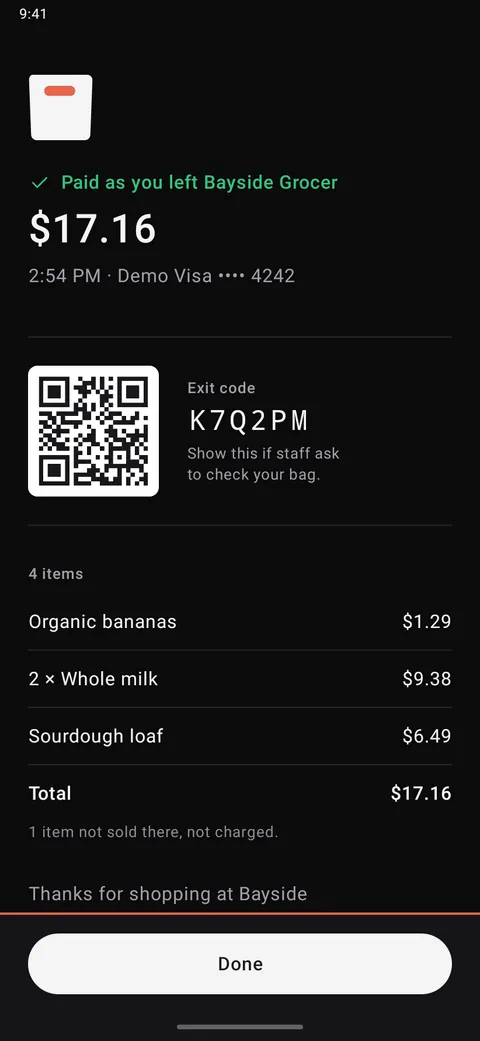
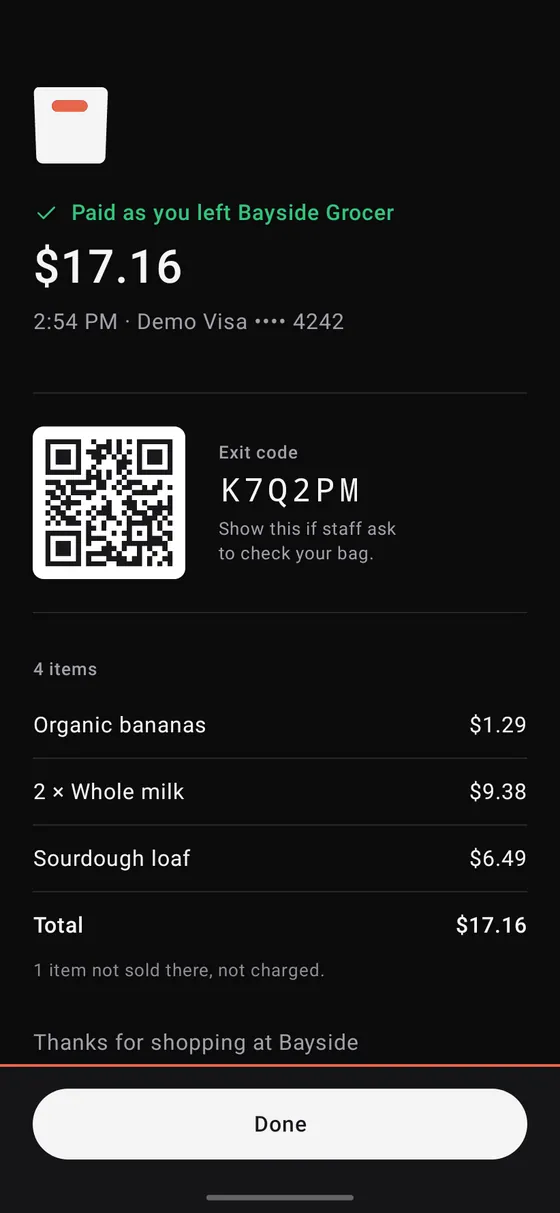
Website: Get the app as one phone preview of every screen with an Android | iPhone selector (single PAGES list)

diff --git a/website/index.html b/website/index.html
@@ -2,6 +2,7 @@
 <html lang="en">
 <head>
 <meta charset="utf-8">
+<script>document.documentElement.className+=" js"</script>
 <meta name="viewport" content="width=device-width,initial-scale=1,viewport-fit=cover">
 <title>Bag It: the bag that checks you out</title>
 <meta name="description" content="Bag It is a smart grocery bag. Drop your groceries in, walk out of the store, and your receipt arrives on your phone. No lines, no scanning. Android app available now; iPhone app coming soon.">
@@ -79,25 +80,51 @@ figcaption{font-size:14px;color:var(--faint);margin-top:12px;text-align:center}
 @media (max-width:899px){.steps{grid-template-columns:1fr;row-gap:28px}}
 .demo-film{margin:0;max-width:1120px}
 .demo-film figcaption{text-align:left}
-.plats{display:grid;grid-template-columns:repeat(2,minmax(0,1fr));gap:clamp(32px,6vw,80px);align-items:start}
-@media (max-width:819px){.plats{grid-template-columns:1fr;row-gap:40px}}
-.plat{padding:24px 0 8px;border-top:1px solid var(--ink)}
-.plat-h{display:flex;flex-wrap:wrap;align-items:baseline;justify-content:space-between;gap:4px 16px}
-.plat h3{font-size:22px}
-.plat-h p{font-size:15px;color:var(--muted)}
-.plat .fine{margin-top:12px;max-width:40em}
-.act{display:flex;align-items:center;min-height:48px;margin-top:24px}
-.soon{font-weight:600;color:var(--ink)}
-.screens{display:grid;grid-template-columns:repeat(2,minmax(0,1fr));gap:clamp(12px,2vw,20px);max-width:500px;margin:24px 0 0;padding:0;list-style:none}
-.screens img{width:100%;height:auto;border-radius:clamp(14px,2.4vw,22px);outline:1px solid var(--line);outline-offset:-1px;background:var(--bg2)}
-.screens figcaption{text-align:left;margin-top:10px}
-.shots-note{font-size:14px;color:var(--faint);margin-top:clamp(28px,4vw,40px)}
-.qr-box{display:flex;gap:20px;align-items:center;margin-top:24px;padding:20px;border:1px solid var(--line);border-radius:20px;background:var(--bg2);max-width:500px}
-.qr{width:132px;height:132px;flex:none;border-radius:8px}
-.qr-box p{font-size:15px;color:var(--muted)}
-.qr-box b{display:block;color:var(--ink);font-weight:600;margin-bottom:4px}
-@media (max-width:819px){.qr-box{display:none}}
+.tour{display:flex;flex-direction:column;align-items:center}
+.pages{display:flex;flex-wrap:wrap;justify-content:center;gap:2px 6px;margin:0 0 clamp(20px,3vw,28px)}
+.pages[hidden],.platsel[hidden],.step[hidden]{display:none}
+.pages button{cursor:pointer;min-height:44px;min-width:44px;padding:0 12px;border:0;background:none;color:var(--muted);font:500 15px/1 var(--sans);border-radius:999px;position:relative;transition:color .2s ease-out}
+.pages button:hover{color:var(--ink)}
+.pages button[aria-selected=true]{color:var(--ink);font-weight:600}
+.pages button[aria-selected=true]::after{content:"";position:absolute;left:12px;right:12px;bottom:6px;height:2px;border-radius:2px;background:var(--ink)}
+.phone{width:clamp(232px,64vw,280px);padding:7px;border:1px solid var(--line2);border-radius:46px;background:var(--bg);margin:0}
+.screen{position:relative;aspect-ratio:560/1213;border-radius:39px;overflow:hidden;background:var(--bg2);touch-action:pan-y;user-select:none;-webkit-user-select:none}
+.screen picture,.screen img{position:absolute;inset:0;width:100%;height:100%}
+.screen img{object-fit:cover;object-position:top;-webkit-user-drag:none}
+.screen picture{transition:opacity .28s ease-out}
+.screen picture.in{opacity:0}
+.ctl{display:flex;align-items:center;justify-content:center;gap:14px;margin-top:16px}
+.step{cursor:pointer;width:44px;height:44px;border-radius:999px;border:1px solid var(--line2);background:none;color:var(--ink);display:inline-flex;align-items:center;justify-content:center;transition:border-color .2s ease-out}
+.step:hover{border-color:var(--muted)}
+.step svg{width:16px;height:16px}
+.cap{font-size:14px;color:var(--faint);min-width:11em;text-align:center}
+.cap b{color:var(--ink);font-weight:600}
+.shots-note{font-size:14px;color:var(--faint);margin-top:10px;text-align:center;max-width:34em}
+.ios-only{display:none}
+html.plat-ios .ios-only{display:inline}
+.platsel{display:flex;gap:4px;padding:4px;margin:clamp(40px,6vw,64px) auto 0;width:max-content;border:1px solid var(--line2);border-radius:999px}
+.platsel button{cursor:pointer;min-height:44px;min-width:120px;padding:0 22px;border:0;border-radius:999px;background:none;color:var(--muted);font:600 15px/1 var(--sans);transition:color .2s ease-out}
+.platsel button:hover{color:var(--ink)}
+.platsel button[aria-selected=true]{background:var(--btn);color:var(--btn-ink)}
+.panels{max-width:760px;margin:clamp(24px,4vw,36px) auto 0}
+.panel{display:grid;grid-template-columns:minmax(0,1fr) auto;gap:24px 40px;align-items:start;padding-top:24px;border-top:1px solid var(--ink)}
+.panel+.panel{margin-top:40px}
+.js .panel+.panel{margin-top:0}
+.panel[hidden]{display:none}
+.panel h3{font-size:22px;margin-bottom:6px}
+.js .panel h3{display:none}
+.panel .meta{color:var(--muted)}
+.panel .act{margin-top:20px}
+.panel .fine{margin-top:14px;max-width:40em}
+.panel .plain{font-size:18px;color:var(--ink);margin-top:14px;max-width:28em}
+.js .nojs-only{display:none}
+.qr-box{display:flex;flex-direction:column;gap:12px;align-items:center;padding:16px;border:1px solid var(--line);border-radius:20px;background:var(--bg2);width:180px}
+.qr{width:146px;height:146px;flex:none;border-radius:6px}
+.qr-box p{font-size:14px;color:var(--muted);text-align:center;line-height:1.4}
+.qr-box b{display:block;color:var(--ink);font-weight:600}
+@media (max-width:819px){.panel{grid-template-columns:1fr}.qr-box{display:none}}
 @media (hover:none) and (pointer:coarse){.qr-box{display:none}}
+@media (prefers-reduced-motion:reduce){.screen picture,.pages button,.platsel button,.step{transition:none}}
 .faq{max-width:760px;border-top:1px solid var(--ink)}
 .faq details{border-bottom:1px solid var(--line)}
 .faq summary{list-style:none;cursor:pointer;display:flex;justify-content:space-between;align-items:center;gap:20px;padding:20px 0;font-weight:600;font-size:17px}
@@ -173,32 +200,39 @@ html{scroll-padding-top:72px}
 <section class="sec" id="get" aria-labelledby="get-h">
 <div class="wrap">
 <div class="head"><p class="label">Get the app</p><h2 id="get-h">For iPhone and Android.</h2><p>Bags aren’t on sale yet. During early access, the app works with a Bag It bag in a few demo stores. Get it on Android now; the iPhone app is on its way.</p></div>
-<div class="plats">
-<div class="plat" id="get-android">
-<div class="plat-h"><h3>Android</h3><p>Version 3.1 · Android 8.0 or newer · 6.6 MB</p></div>
-<!-- SCREENS (swap point): Android. Files come from tools/make-screens.py; keep the same two states on both platforms. -->
-<ul class="screens" aria-label="Bag It on Android">
-<li><figure style="margin:0"><picture><source srcset="media/screens/android-shop-dark.webp" media="(prefers-color-scheme: dark)"><img src="media/screens/android-shop.webp" width="480" height="1041" loading="lazy" decoding="async" alt="Bag It on Android while shopping at Bayside Grocer: bag connected, sourdough loaf just added, one item not sold there, and Just walk out, $17.16."></picture><figcaption>Shopping</figcaption></figure></li>
-<li><figure style="margin:0"><picture><source srcset="media/screens/android-receipt-dark.webp" media="(prefers-color-scheme: dark)"><img src="media/screens/android-receipt.webp" width="480" height="1041" loading="lazy" decoding="async" alt="Bag It on Android after leaving: Paid as you left Bayside Grocer, $17.16 with a demo card, and an exit code to show staff."></picture><figcaption>Receipt</figcaption></figure></li>
-</ul>
-<!-- /SCREENS -->
+<div class="tour" role="group" aria-roledescription="app preview" aria-label="App screens">
+<div class="pages" role="tablist" aria-label="App screen" hidden></div>
+<figure class="phone" id="phone" role="tabpanel" aria-label="App screen">
+<div class="screen" id="screen">
+<!-- FIRST SCREEN -->
+<picture><source srcset="media/screens/android-shopping-dark.webp" media="(prefers-color-scheme: dark)"><img src="media/screens/android-shopping.webp" width="560" height="1213" fetchpriority="low" decoding="async" alt="Bag It on Android. Shopping at Bayside Grocer: each item appears with its price as it goes in the bag, one item isn’t sold there and won’t be charged, and the total says Just walk out."></picture>
+<!-- /FIRST SCREEN -->
+</div>
+</figure>
+<div class="ctl"><button class="step" type="button" id="prev" aria-label="Previous screen" hidden><svg viewBox="0 0 16 16" aria-hidden="true" fill="none" stroke="currentColor" stroke-width="1.8" stroke-linecap="round" stroke-linejoin="round"><path d="M10 3 5 8l5 5"/></svg></button><p class="cap" id="cap" aria-live="polite"><b>Shopping</b> · Android</p><button class="step" type="button" id="next" aria-label="Next screen" hidden><svg viewBox="0 0 16 16" aria-hidden="true" fill="none" stroke="currentColor" stroke-width="1.8" stroke-linecap="round" stroke-linejoin="round"><path d="m6 3 5 5-5 5"/></svg></button></div>
+<p class="shots-note">Screens show demo data.<span class="ios-only"> The iPhone screens are previews of the app in development.</span></p>
+</div>
+<div class="platsel" role="tablist" aria-label="Your phone" hidden><button type="button" role="tab" id="tab-android" aria-controls="get-android" aria-selected="true">Android</button><button type="button" role="tab" id="tab-iphone" aria-controls="get-iphone" aria-selected="false" tabindex="-1">iPhone</button></div>
+<div class="panels">
+<div class="panel" id="get-android" role="tabpanel" aria-labelledby="tab-android">
+<div>
+<h3>Android</h3>
+<p class="meta">Version 3.1 · Android 8.0 or newer · 6.6 MB</p>
 <div class="act"><a class="btn btn-1" href="downloads/bag-it.apk" download><svg viewBox="0 0 16 16" aria-hidden="true" fill="none" stroke="currentColor" stroke-width="1.8" stroke-linecap="round" stroke-linejoin="round"><path d="M8 2.5v8M4.5 7 8 10.5 11.5 7M3 13.5h10"/></svg>Download for Android</a></div>
 <p class="fine">It isn’t on Google Play yet, so Android will ask you to allow the install; it appears on your phone as Bag It. Then allow Bluetooth (Nearby devices on Android 12 and newer), precise location and notifications, open the app near your bag and tap Connect bag. During early access, payments are simulated, and your phone’s location and trips are stored as test data that anyone can read.</p>
-<div class="qr-box"><svg class="qr" viewBox="-4 -4 37 37" role="img" aria-label="QR code that downloads the Bag It app for Android" shape-rendering="crispEdges"><rect x="-4" y="-4" width="37" height="37" fill="#fff"/><path fill="#18181B" d="M0 0h1v1h-1zM1 0h1v1h-1zM2 0h1v1h-1zM3 0h1v1h-1zM4 0h1v1h-1zM5 0h1v1h-1zM6 0h1v1h-1zM9 0h1v1h-1zM12 0h1v1h-1zM14 0h1v1h-1zM16 0h1v1h-1zM17 0h1v1h-1zM18 0h1v1h-1zM19 0h1v1h-1zM20 0h1v1h-1zM22 0h1v1h-1zM23 0h1v1h-1zM24 0h1v1h-1zM25 0h1v1h-1zM26 0h1v1h-1zM27 0h1v1h-1zM28 0h1v1h-1zM0 1h1v1h-1zM6 1h1v1h-1zM9 1h1v1h-1zM10 1h1v1h-1zM11 1h1v1h-1zM12 1h1v1h-1zM14 1h1v1h-1zM15 1h1v1h-1zM16 1h1v1h-1zM17 1h1v1h-1zM22 1h1v1h-1zM28 1h1v1h-1zM0 2h1v1h-1zM2 2h1v1h-1zM3 2h1v1h-1zM4 2h1v1h-1zM6 2h1v1h-1zM8 2h1v1h-1zM10 2h1v1h-1zM11 2h1v1h-1zM15 2h1v1h-1zM20 2h1v1h-1zM22 2h1v1h-1zM24 2h1v1h-1zM25 2h1v1h-1zM26 2h1v1h-1zM28 2h1v1h-1zM0 3h1v1h-1zM2 3h1v1h-1zM3 3h1v1h-1zM4 3h1v1h-1zM6 3h1v1h-1zM8 3h1v1h-1zM9 3h1v1h-1zM13 3h1v1h-1zM17 3h1v1h-1zM22 3h1v1h-1zM24 3h1v1h-1zM25 3h1v1h-1zM26 3h1v1h-1zM28 3h1v1h-1zM0 4h1v1h-1zM2 4h1v1h-1zM3 4h1v1h-1zM4 4h1v1h-1zM6 4h1v1h-1zM8 4h1v1h-1zM10 4h1v1h-1zM11 4h1v1h-1zM13 4h1v1h-1zM16 4h1v1h-1zM19 4h1v1h-1zM20 4h1v1h-1zM22 4h1v1h-1zM24 4h1v1h-1zM25 4h1v1h-1zM26 4h1v1h-1zM28 4h1v1h-1zM0 5h1v1h-1zM6 5h1v1h-1zM8 5h1v1h-1zM10 5h1v1h-1zM11 5h1v1h-1zM12 5h1v1h-1zM13 5h1v1h-1zM14 5h1v1h-1zM15 5h1v1h-1zM16 5h1v1h-1zM17 5h1v1h-1zM20 5h1v1h-1zM22 5h1v1h-1zM28 5h1v1h-1zM0 6h1v1h-1zM1 6h1v1h-1zM2 6h1v1h-1zM3 6h1v1h-1zM4 6h1v1h-1zM5 6h1v1h-1zM6 6h1v1h-1zM8 6h1v1h-1zM10 6h1v1h-1zM12 6h1v1h-1zM14 6h1v1h-1zM16 6h1v1h-1zM18 6h1v1h-1zM20 6h1v1h-1zM22 6h1v1h-1zM23 6h1v1h-1zM24 6h1v1h-1zM25 6h1v1h-1zM26 6h1v1h-1zM27 6h1v1h-1zM28 6h1v1h-1zM8 7h1v1h-1zM10 7h1v1h-1zM12 7h1v1h-1zM15 7h1v1h-1zM16 7h1v1h-1zM19 7h1v1h-1zM20 7h1v1h-1zM0 8h1v1h-1zM2 8h1v1h-1zM3 8h1v1h-1zM4 8h1v1h-1zM5 8h1v1h-1zM6 8h1v1h-1zM9 8h1v1h-1zM12 8h1v1h-1zM13 8h1v1h-1zM14 8h1v1h-1zM17 8h1v1h-1zM19 8h1v1h-1zM22 8h1v1h-1zM23 8h1v1h-1zM24 8h1v1h-1zM25 8h1v1h-1zM26 8h1v1h-1zM0 9h1v1h-1zM1 9h1v1h-1zM2 9h1v1h-1zM3 9h1v1h-1zM4 9h1v1h-1zM5 9h1v1h-1zM8 9h1v1h-1zM9 9h1v1h-1zM10 9h1v1h-1zM11 9h1v1h-1zM17 9h1v1h-1zM18 9h1v1h-1zM19 9h1v1h-1zM22 9h1v1h-1zM23 9h1v1h-1zM24 9h1v1h-1zM28 9h1v1h-1zM5 10h1v1h-1zM6 10h1v1h-1zM10 10h1v1h-1zM15 10h1v1h-1zM16 10h1v1h-1zM17 10h1v1h-1zM20 10h1v1h-1zM23 10h1v1h-1zM24 10h1v1h-1zM0 11h1v1h-1zM1 11h1v1h-1zM5 11h1v1h-1zM10 11h1v1h-1zM14 11h1v1h-1zM16 11h1v1h-1zM18 11h1v1h-1zM19 11h1v1h-1zM21 11h1v1h-1zM25 11h1v1h-1zM27 11h1v1h-1zM0 12h1v1h-1zM5 12h1v1h-1zM6 12h1v1h-1zM7 12h1v1h-1zM8 12h1v1h-1zM9 12h1v1h-1zM10 12h1v1h-1zM11 12h1v1h-1zM12 12h1v1h-1zM13 12h1v1h-1zM14 12h1v1h-1zM15 12h1v1h-1zM17 12h1v1h-1zM20 12h1v1h-1zM25 12h1v1h-1zM26 12h1v1h-1zM0 13h1v1h-1zM1 13h1v1h-1zM3 13h1v1h-1zM4 13h1v1h-1zM5 13h1v1h-1zM7 13h1v1h-1zM9 13h1v1h-1zM12 13h1v1h-1zM14 13h1v1h-1zM16 13h1v1h-1zM17 13h1v1h-1zM18 13h1v1h-1zM19 13h1v1h-1zM20 13h1v1h-1zM22 13h1v1h-1zM23 13h1v1h-1zM24 13h1v1h-1zM28 13h1v1h-1zM0 14h1v1h-1zM1 14h1v1h-1zM2 14h1v1h-1zM3 14h1v1h-1zM6 14h1v1h-1zM9 14h1v1h-1zM15 14h1v1h-1zM16 14h1v1h-1zM20 14h1v1h-1zM23 14h1v1h-1zM25 14h1v1h-1zM26 14h1v1h-1zM0 15h1v1h-1zM2 15h1v1h-1zM5 15h1v1h-1zM7 15h1v1h-1zM9 15h1v1h-1zM11 15h1v1h-1zM12 15h1v1h-1zM15 15h1v1h-1zM18 15h1v1h-1zM20 15h1v1h-1zM22 15h1v1h-1zM23 15h1v1h-1zM24 15h1v1h-1zM27 15h1v1h-1zM0 16h1v1h-1zM3 16h1v1h-1zM5 16h1v1h-1zM6 16h1v1h-1zM9 16h1v1h-1zM10 16h1v1h-1zM13 16h1v1h-1zM14 16h1v1h-1zM15 16h1v1h-1zM17 16h1v1h-1zM20 16h1v1h-1zM25 16h1v1h-1zM26 16h1v1h-1zM0 17h1v1h-1zM1 17h1v1h-1zM4 17h1v1h-1zM5 17h1v1h-1zM7 17h1v1h-1zM9 17h1v1h-1zM10 17h1v1h-1zM12 17h1v1h-1zM13 17h1v1h-1zM16 17h1v1h-1zM17 17h1v1h-1zM18 17h1v1h-1zM19 17h1v1h-1zM20 17h1v1h-1zM21 17h1v1h-1zM22 17h1v1h-1zM23 17h1v1h-1zM24 17h1v1h-1zM26 17h1v1h-1zM28 17h1v1h-1zM0 18h1v1h-1zM4 18h1v1h-1zM5 18h1v1h-1zM6 18h1v1h-1zM8 18h1v1h-1zM11 18h1v1h-1zM13 18h1v1h-1zM15 18h1v1h-1zM17 18h1v1h-1zM21 18h1v1h-1zM22 18h1v1h-1zM23 18h1v1h-1zM24 18h1v1h-1zM26 18h1v1h-1zM0 19h1v1h-1zM2 19h1v1h-1zM8 19h1v1h-1zM10 19h1v1h-1zM14 19h1v1h-1zM19 19h1v1h-1zM20 19h1v1h-1zM24 19h1v1h-1zM27 19h1v1h-1zM0 20h1v1h-1zM2 20h1v1h-1zM5 20h1v1h-1zM6 20h1v1h-1zM7 20h1v1h-1zM8 20h1v1h-1zM9 20h1v1h-1zM10 20h1v1h-1zM15 20h1v1h-1zM17 20h1v1h-1zM19 20h1v1h-1zM20 20h1v1h-1zM21 20h1v1h-1zM22 20h1v1h-1zM23 20h1v1h-1zM24 20h1v1h-1zM26 20h1v1h-1zM27 20h1v1h-1zM28 20h1v1h-1zM8 21h1v1h-1zM9 21h1v1h-1zM11 21h1v1h-1zM16 21h1v1h-1zM18 21h1v1h-1zM20 21h1v1h-1zM24 21h1v1h-1zM25 21h1v1h-1zM26 21h1v1h-1zM27 21h1v1h-1zM28 21h1v1h-1zM0 22h1v1h-1zM1 22h1v1h-1zM2 22h1v1h-1zM3 22h1v1h-1zM4 22h1v1h-1zM5 22h1v1h-1zM6 22h1v1h-1zM9 22h1v1h-1zM11 22h1v1h-1zM12 22h1v1h-1zM15 22h1v1h-1zM16 22h1v1h-1zM18 22h1v1h-1zM19 22h1v1h-1zM20 22h1v1h-1zM22 22h1v1h-1zM24 22h1v1h-1zM25 22h1v1h-1zM26 22h1v1h-1zM0 23h1v1h-1zM6 23h1v1h-1zM8 23h1v1h-1zM9 23h1v1h-1zM16 23h1v1h-1zM20 23h1v1h-1zM24 23h1v1h-1zM0 24h1v1h-1zM2 24h1v1h-1zM3 24h1v1h-1zM4 24h1v1h-1zM6 24h1v1h-1zM8 24h1v1h-1zM9 24h1v1h-1zM10 24h1v1h-1zM11 24h1v1h-1zM12 24h1v1h-1zM17 24h1v1h-1zM20 24h1v1h-1zM21 24h1v1h-1zM22 24h1v1h-1zM23 24h1v1h-1zM24 24h1v1h-1zM26 24h1v1h-1zM27 24h1v1h-1zM28 24h1v1h-1zM0 25h1v1h-1zM2 25h1v1h-1zM3 25h1v1h-1zM4 25h1v1h-1zM6 25h1v1h-1zM8 25h1v1h-1zM9 25h1v1h-1zM12 25h1v1h-1zM13 25h1v1h-1zM18 25h1v1h-1zM25 25h1v1h-1zM26 25h1v1h-1zM27 25h1v1h-1zM28 25h1v1h-1zM0 26h1v1h-1zM2 26h1v1h-1zM3 26h1v1h-1zM4 26h1v1h-1zM6 26h1v1h-1zM8 26h1v1h-1zM13 26h1v1h-1zM15 26h1v1h-1zM16 26h1v1h-1zM20 26h1v1h-1zM22 26h1v1h-1zM23 26h1v1h-1zM24 26h1v1h-1zM25 26h1v1h-1zM26 26h1v1h-1zM27 26h1v1h-1zM0 27h1v1h-1zM6 27h1v1h-1zM10 27h1v1h-1zM12 27h1v1h-1zM14 27h1v1h-1zM18 27h1v1h-1zM20 27h1v1h-1zM25 27h1v1h-1zM27 27h1v1h-1zM0 28h1v1h-1zM1 28h1v1h-1zM2 28h1v1h-1zM3 28h1v1h-1zM4 28h1v1h-1zM5 28h1v1h-1zM6 28h1v1h-1zM8 28h1v1h-1zM9 28h1v1h-1zM10 28h1v1h-1zM11 28h1v1h-1zM12 28h1v1h-1zM15 28h1v1h-1zM16 28h1v1h-1zM17 28h1v1h-1zM19 28h1v1h-1zM21 28h1v1h-1zM24 28h1v1h-1zM26 28h1v1h-1z"/></svg><p><b>On a computer?</b>Scan with your Android phone to download the app.</p></div>
+<p class="fine nojs-only">On an iPhone? <a href="#get-iphone">Read the iPhone note</a>.</p>
 </div>
-<div class="plat" id="get-iphone">
-<div class="plat-h"><h3>iPhone</h3><p>iOS 16 or newer</p></div>
-<!-- SCREENS (swap point): iPhone. -->
-<ul class="screens" aria-label="Bag It on iPhone">
-<li><figure style="margin:0"><picture><source srcset="media/screens/ios-shop-dark.webp" media="(prefers-color-scheme: dark)"><img src="media/screens/ios-shop.webp" width="480" height="1039" loading="lazy" decoding="async" alt="Bag It on iPhone while shopping at Bayside Grocer: bag connected, four items in the bag, one of them not sold there, and Just walk out, $13.76."></picture><figcaption>Shopping</figcaption></figure></li>
-<li><figure style="margin:0"><picture><source srcset="media/screens/ios-receipt-dark.webp" media="(prefers-color-scheme: dark)"><img src="media/screens/ios-receipt.webp" width="480" height="1039" loading="lazy" decoding="async" alt="Bag It on iPhone after leaving: Paid as you left Bayside Grocer, $13.76 with a demo card, and an exit pass to show staff."></picture><figcaption>Receipt</figcaption></figure></li>
-</ul>
-<!-- /SCREENS -->
-<div class="act"><p class="soon">Coming soon to the App Store</p></div>
-<p class="fine">The iPhone app isn’t available to download yet. When it is, it will ask for Bluetooth, location and notifications, one at a time, so it can hear your bag, find your store and send your receipt.</p>
+<div class="qr-box"><svg class="qr" viewBox="-4 -4 37 37" role="img" aria-label="QR code that downloads the Bag It app for Android" shape-rendering="crispEdges"><rect x="-4" y="-4" width="37" height="37" fill="#fff"/><path fill="#18181B" d="M0 0h1v1h-1zM1 0h1v1h-1zM2 0h1v1h-1zM3 0h1v1h-1zM4 0h1v1h-1zM5 0h1v1h-1zM6 0h1v1h-1zM9 0h1v1h-1zM12 0h1v1h-1zM14 0h1v1h-1zM16 0h1v1h-1zM17 0h1v1h-1zM18 0h1v1h-1zM19 0h1v1h-1zM20 0h1v1h-1zM22 0h1v1h-1zM23 0h1v1h-1zM24 0h1v1h-1zM25 0h1v1h-1zM26 0h1v1h-1zM27 0h1v1h-1zM28 0h1v1h-1zM0 1h1v1h-1zM6 1h1v1h-1zM9 1h1v1h-1zM10 1h1v1h-1zM11 1h1v1h-1zM12 1h1v1h-1zM14 1h1v1h-1zM15 1h1v1h-1zM16 1h1v1h-1zM17 1h1v1h-1zM22 1h1v1h-1zM28 1h1v1h-1zM0 2h1v1h-1zM2 2h1v1h-1zM3 2h1v1h-1zM4 2h1v1h-1zM6 2h1v1h-1zM8 2h1v1h-1zM10 2h1v1h-1zM11 2h1v1h-1zM15 2h1v1h-1zM20 2h1v1h-1zM22 2h1v1h-1zM24 2h1v1h-1zM25 2h1v1h-1zM26 2h1v1h-1zM28 2h1v1h-1zM0 3h1v1h-1zM2 3h1v1h-1zM3 3h1v1h-1zM4 3h1v1h-1zM6 3h1v1h-1zM8 3h1v1h-1zM9 3h1v1h-1zM13 3h1v1h-1zM17 3h1v1h-1zM22 3h1v1h-1zM24 3h1v1h-1zM25 3h1v1h-1zM26 3h1v1h-1zM28 3h1v1h-1zM0 4h1v1h-1zM2 4h1v1h-1zM3 4h1v1h-1zM4 4h1v1h-1zM6 4h1v1h-1zM8 4h1v1h-1zM10 4h1v1h-1zM11 4h1v1h-1zM13 4h1v1h-1zM16 4h1v1h-1zM19 4h1v1h-1zM20 4h1v1h-1zM22 4h1v1h-1zM24 4h1v1h-1zM25 4h1v1h-1zM26 4h1v1h-1zM28 4h1v1h-1zM0 5h1v1h-1zM6 5h1v1h-1zM8 5h1v1h-1zM10 5h1v1h-1zM11 5h1v1h-1zM12 5h1v1h-1zM13 5h1v1h-1zM14 5h1v1h-1zM15 5h1v1h-1zM16 5h1v1h-1zM17 5h1v1h-1zM20 5h1v1h-1zM22 5h1v1h-1zM28 5h1v1h-1zM0 6h1v1h-1zM1 6h1v1h-1zM2 6h1v1h-1zM3 6h1v1h-1zM4 6h1v1h-1zM5 6h1v1h-1zM6 6h1v1h-1zM8 6h1v1h-1zM10 6h1v1h-1zM12 6h1v1h-1zM14 6h1v1h-1zM16 6h1v1h-1zM18 6h1v1h-1zM20 6h1v1h-1zM22 6h1v1h-1zM23 6h1v1h-1zM24 6h1v1h-1zM25 6h1v1h-1zM26 6h1v1h-1zM27 6h1v1h-1zM28 6h1v1h-1zM8 7h1v1h-1zM10 7h1v1h-1zM12 7h1v1h-1zM15 7h1v1h-1zM16 7h1v1h-1zM19 7h1v1h-1zM20 7h1v1h-1zM0 8h1v1h-1zM2 8h1v1h-1zM3 8h1v1h-1zM4 8h1v1h-1zM5 8h1v1h-1zM6 8h1v1h-1zM9 8h1v1h-1zM12 8h1v1h-1zM13 8h1v1h-1zM14 8h1v1h-1zM17 8h1v1h-1zM19 8h1v1h-1zM22 8h1v1h-1zM23 8h1v1h-1zM24 8h1v1h-1zM25 8h1v1h-1zM26 8h1v1h-1zM0 9h1v1h-1zM1 9h1v1h-1zM2 9h1v1h-1zM3 9h1v1h-1zM4 9h1v1h-1zM5 9h1v1h-1zM8 9h1v1h-1zM9 9h1v1h-1zM10 9h1v1h-1zM11 9h1v1h-1zM17 9h1v1h-1zM18 9h1v1h-1zM19 9h1v1h-1zM22 9h1v1h-1zM23 9h1v1h-1zM24 9h1v1h-1zM28 9h1v1h-1zM5 10h1v1h-1zM6 10h1v1h-1zM10 10h1v1h-1zM15 10h1v1h-1zM16 10h1v1h-1zM17 10h1v1h-1zM20 10h1v1h-1zM23 10h1v1h-1zM24 10h1v1h-1zM0 11h1v1h-1zM1 11h1v1h-1zM5 11h1v1h-1zM10 11h1v1h-1zM14 11h1v1h-1zM16 11h1v1h-1zM18 11h1v1h-1zM19 11h1v1h-1zM21 11h1v1h-1zM25 11h1v1h-1zM27 11h1v1h-1zM0 12h1v1h-1zM5 12h1v1h-1zM6 12h1v1h-1zM7 12h1v1h-1zM8 12h1v1h-1zM9 12h1v1h-1zM10 12h1v1h-1zM11 12h1v1h-1zM12 12h1v1h-1zM13 12h1v1h-1zM14 12h1v1h-1zM15 12h1v1h-1zM17 12h1v1h-1zM20 12h1v1h-1zM25 12h1v1h-1zM26 12h1v1h-1zM0 13h1v1h-1zM1 13h1v1h-1zM3 13h1v1h-1zM4 13h1v1h-1zM5 13h1v1h-1zM7 13h1v1h-1zM9 13h1v1h-1zM12 13h1v1h-1zM14 13h1v1h-1zM16 13h1v1h-1zM17 13h1v1h-1zM18 13h1v1h-1zM19 13h1v1h-1zM20 13h1v1h-1zM22 13h1v1h-1zM23 13h1v1h-1zM24 13h1v1h-1zM28 13h1v1h-1zM0 14h1v1h-1zM1 14h1v1h-1zM2 14h1v1h-1zM3 14h1v1h-1zM6 14h1v1h-1zM9 14h1v1h-1zM15 14h1v1h-1zM16 14h1v1h-1zM20 14h1v1h-1zM23 14h1v1h-1zM25 14h1v1h-1zM26 14h1v1h-1zM0 15h1v1h-1zM2 15h1v1h-1zM5 15h1v1h-1zM7 15h1v1h-1zM9 15h1v1h-1zM11 15h1v1h-1zM12 15h1v1h-1zM15 15h1v1h-1zM18 15h1v1h-1zM20 15h1v1h-1zM22 15h1v1h-1zM23 15h1v1h-1zM24 15h1v1h-1zM27 15h1v1h-1zM0 16h1v1h-1zM3 16h1v1h-1zM5 16h1v1h-1zM6 16h1v1h-1zM9 16h1v1h-1zM10 16h1v1h-1zM13 16h1v1h-1zM14 16h1v1h-1zM15 16h1v1h-1zM17 16h1v1h-1zM20 16h1v1h-1zM25 16h1v1h-1zM26 16h1v1h-1zM0 17h1v1h-1zM1 17h1v1h-1zM4 17h1v1h-1zM5 17h1v1h-1zM7 17h1v1h-1zM9 17h1v1h-1zM10 17h1v1h-1zM12 17h1v1h-1zM13 17h1v1h-1zM16 17h1v1h-1zM17 17h1v1h-1zM18 17h1v1h-1zM19 17h1v1h-1zM20 17h1v1h-1zM21 17h1v1h-1zM22 17h1v1h-1zM23 17h1v1h-1zM24 17h1v1h-1zM26 17h1v1h-1zM28 17h1v1h-1zM0 18h1v1h-1zM4 18h1v1h-1zM5 18h1v1h-1zM6 18h1v1h-1zM8 18h1v1h-1zM11 18h1v1h-1zM13 18h1v1h-1zM15 18h1v1h-1zM17 18h1v1h-1zM21 18h1v1h-1zM22 18h1v1h-1zM23 18h1v1h-1zM24 18h1v1h-1zM26 18h1v1h-1zM0 19h1v1h-1zM2 19h1v1h-1zM8 19h1v1h-1zM10 19h1v1h-1zM14 19h1v1h-1zM19 19h1v1h-1zM20 19h1v1h-1zM24 19h1v1h-1zM27 19h1v1h-1zM0 20h1v1h-1zM2 20h1v1h-1zM5 20h1v1h-1zM6 20h1v1h-1zM7 20h1v1h-1zM8 20h1v1h-1zM9 20h1v1h-1zM10 20h1v1h-1zM15 20h1v1h-1zM17 20h1v1h-1zM19 20h1v1h-1zM20 20h1v1h-1zM21 20h1v1h-1zM22 20h1v1h-1zM23 20h1v1h-1zM24 20h1v1h-1zM26 20h1v1h-1zM27 20h1v1h-1zM28 20h1v1h-1zM8 21h1v1h-1zM9 21h1v1h-1zM11 21h1v1h-1zM16 21h1v1h-1zM18 21h1v1h-1zM20 21h1v1h-1zM24 21h1v1h-1zM25 21h1v1h-1zM26 21h1v1h-1zM27 21h1v1h-1zM28 21h1v1h-1zM0 22h1v1h-1zM1 22h1v1h-1zM2 22h1v1h-1zM3 22h1v1h-1zM4 22h1v1h-1zM5 22h1v1h-1zM6 22h1v1h-1zM9 22h1v1h-1zM11 22h1v1h-1zM12 22h1v1h-1zM15 22h1v1h-1zM16 22h1v1h-1zM18 22h1v1h-1zM19 22h1v1h-1zM20 22h1v1h-1zM22 22h1v1h-1zM24 22h1v1h-1zM25 22h1v1h-1zM26 22h1v1h-1zM0 23h1v1h-1zM6 23h1v1h-1zM8 23h1v1h-1zM9 23h1v1h-1zM16 23h1v1h-1zM20 23h1v1h-1zM24 23h1v1h-1zM0 24h1v1h-1zM2 24h1v1h-1zM3 24h1v1h-1zM4 24h1v1h-1zM6 24h1v1h-1zM8 24h1v1h-1zM9 24h1v1h-1zM10 24h1v1h-1zM11 24h1v1h-1zM12 24h1v1h-1zM17 24h1v1h-1zM20 24h1v1h-1zM21 24h1v1h-1zM22 24h1v1h-1zM23 24h1v1h-1zM24 24h1v1h-1zM26 24h1v1h-1zM27 24h1v1h-1zM28 24h1v1h-1zM0 25h1v1h-1zM2 25h1v1h-1zM3 25h1v1h-1zM4 25h1v1h-1zM6 25h1v1h-1zM8 25h1v1h-1zM9 25h1v1h-1zM12 25h1v1h-1zM13 25h1v1h-1zM18 25h1v1h-1zM25 25h1v1h-1zM26 25h1v1h-1zM27 25h1v1h-1zM28 25h1v1h-1zM0 26h1v1h-1zM2 26h1v1h-1zM3 26h1v1h-1zM4 26h1v1h-1zM6 26h1v1h-1zM8 26h1v1h-1zM13 26h1v1h-1zM15 26h1v1h-1zM16 26h1v1h-1zM20 26h1v1h-1zM22 26h1v1h-1zM23 26h1v1h-1zM24 26h1v1h-1zM25 26h1v1h-1zM26 26h1v1h-1zM27 26h1v1h-1zM0 27h1v1h-1zM6 27h1v1h-1zM10 27h1v1h-1zM12 27h1v1h-1zM14 27h1v1h-1zM18 27h1v1h-1zM20 27h1v1h-1zM25 27h1v1h-1zM27 27h1v1h-1zM0 28h1v1h-1zM1 28h1v1h-1zM2 28h1v1h-1zM3 28h1v1h-1zM4 28h1v1h-1zM5 28h1v1h-1zM6 28h1v1h-1zM8 28h1v1h-1zM9 28h1v1h-1zM10 28h1v1h-1zM11 28h1v1h-1zM12 28h1v1h-1zM15 28h1v1h-1zM16 28h1v1h-1zM17 28h1v1h-1zM19 28h1v1h-1zM21 28h1v1h-1zM24 28h1v1h-1zM26 28h1v1h-1z"/></svg><p><b>On a computer?</b>Scan with your Android phone to download.</p></div>
+</div>
+<div class="panel" id="get-iphone" role="tabpanel" aria-labelledby="tab-iphone" tabindex="0">
+<div>
+<h3>iPhone</h3>
+<p class="meta">iOS 16 or newer</p>
+<p class="plain">The iPhone app isn’t available to download yet. It’s coming to the App Store.</p>
+<p class="fine">Until then, you can look through its screens above.</p>
 </div>
 </div>
-<p class="shots-note">Screens show demo data. The iPhone screens are previews of the app in development.</p>
+</div>
 </div>
 </section>
 
@@ -243,6 +277,51 @@ document.querySelectorAll('.vctl').forEach(function(b){
     b.addEventListener('click',function(){v.dataset.user=v.paused?'paused':'';});
   }
 });
+})();
+
+/* PAGES (generated by tools/make-screens.py; edit there) */
+var PAGES=[{"id": "welcome","label": "Welcome","alt": "Welcome screen: The bag that checks you out. It lists what the app needs (Bluetooth, location, notifications) and a Get started button.","android": "media/screens/android-welcome.webp","androidDark": "media/screens/android-welcome-dark.webp","ios": "media/screens/ios-welcome.webp","iosDark": null},{"id": "in-store","label": "In store","alt": "In the store: You’re at Bayside Grocer, bag connected, the bag is empty: Drop something in.","android": "media/screens/android-in-store.webp","androidDark": "media/screens/android-in-store-dark.webp","ios": "media/screens/ios-in-store.webp","iosDark": null},{"id": "shopping","label": "Shopping","alt": "Shopping at Bayside Grocer: each item appears with its price as it goes in the bag, one item isn’t sold there and won’t be charged, and the total says Just walk out.","android": "media/screens/android-shopping.webp","androidDark": "media/screens/android-shopping-dark.webp","ios": "media/screens/ios-shopping.webp","iosDark": null},{"id": "leaving","label": "Leaving","alt": "Leaving Bayside Grocer: the bag is charged as you leave; step back inside to keep shopping.","android": "media/screens/android-leaving.webp","androidDark": "media/screens/android-leaving-dark.webp","ios": "media/screens/ios-leaving.webp","iosDark": null},{"id": "receipt","label": "Receipt","alt": "Receipt: Paid as you left Bayside Grocer with a demo card, an exit code to show staff if asked, and Done.","android": "media/screens/android-receipt.webp","androidDark": "media/screens/android-receipt-dark.webp","ios": "media/screens/ios-receipt.webp","iosDark": null}],START="shopping";
+/* /PAGES */
+(function(){
+var root=document.documentElement,ios=/iPhone|iPad|iPod/i.test(navigator.userAgent);
+var reduce=window.matchMedia&&matchMedia('(prefers-reduced-motion: reduce)').matches;
+var NAME={android:'Android',ios:'iPhone'};
+var tabs=document.querySelector('.pages'),scr=document.getElementById('screen'),cap=document.getElementById('cap');
+var prev=document.getElementById('prev'),next=document.getElementById('next'),phone=document.getElementById('phone');
+var sel=document.querySelector('.platsel'),ptabs=[document.getElementById('tab-android'),document.getElementById('tab-iphone')];
+var panels={android:document.getElementById('get-android'),ios:document.getElementById('get-iphone')};
+if(!PAGES.length||!tabs)return;
+var cur=Math.max(0,PAGES.findIndex(function(p){return p.id===START})),plat='android',btns=[],ready=false;
+function pic(pg,pl){var pc=document.createElement('picture');var d=pg[pl+'Dark'];if(d){var so=document.createElement('source');so.srcset=d;so.media='(prefers-color-scheme: dark)';pc.appendChild(so);}
+  var im=document.createElement('img');im.src=pg[pl];im.width=560;im.height=1213;im.decoding='async';im.alt='Bag It on '+NAME[pl]+'. '+pg.alt;im.draggable=false;pc.appendChild(im);return pc;}
+function warm(i){var pg=PAGES[(i+PAGES.length)%PAGES.length];var dk=window.matchMedia&&matchMedia('(prefers-color-scheme: dark)').matches;var u=(dk&&pg[plat+'Dark'])||pg[plat];var im=new Image();im.decoding='async';im.src=u;}
+function render(){
+  var pg=PAGES[cur],old=scr.querySelectorAll('picture'),pc=pic(pg,plat),im=pc.querySelector('img');
+  if(!reduce&&old.length&&ready){pc.className='in';var shown=false,show=function(){if(shown)return;shown=true;requestAnimationFrame(function(){pc.className='';});setTimeout(function(){old.forEach(function(o){if(o.parentNode)o.remove();});},320);};im.addEventListener('load',show);im.addEventListener('error',show);setTimeout(show,600);}
+  else old.forEach(function(o){o.remove();});
+  scr.appendChild(pc);
+  btns.forEach(function(b,i){var on=i===cur;b.setAttribute('aria-selected',on);b.tabIndex=on?0:-1;});
+  phone.setAttribute('aria-labelledby','pt-'+pg.id);
+  cap.innerHTML='<b></b> · '+NAME[plat]+' · '+(cur+1)+' of '+PAGES.length;cap.querySelector('b').textContent=pg.label;
+  warm(cur+1);warm(cur-1);
+}
+function go(i,focus){cur=(i+PAGES.length)%PAGES.length;render();if(focus)btns[cur].focus();}
+PAGES.forEach(function(pg,i){var b=document.createElement('button');b.type='button';b.role='tab';b.setAttribute('role','tab');b.id='pt-'+pg.id;b.setAttribute('aria-controls','phone');b.textContent=pg.label;b.addEventListener('click',function(){go(i);});tabs.appendChild(b);btns.push(b);});
+tabs.addEventListener('keydown',function(e){var k=e.key,n=null;if(k==='ArrowRight')n=cur+1;else if(k==='ArrowLeft')n=cur-1;else if(k==='Home')n=0;else if(k==='End')n=PAGES.length-1;if(n===null)return;e.preventDefault();go(n,true);});
+prev.addEventListener('click',function(){go(cur-1);});next.addEventListener('click',function(){go(cur+1);});
+var sx=null,sy=0;scr.addEventListener('pointerdown',function(e){sx=e.clientX;sy=e.clientY;});
+scr.addEventListener('pointerup',function(e){if(sx===null)return;var dx=e.clientX-sx,dy=e.clientY-sy;sx=null;if(Math.abs(dx)>40&&Math.abs(dx)>Math.abs(dy)*1.2)go(cur+(dx<0?1:-1));});
+scr.addEventListener('pointercancel',function(){sx=null;});
+function setPlat(p,focus){plat=p;root.classList.toggle('plat-ios',p==='ios');
+  ptabs.forEach(function(t,i){var on=(i===1)===(p==='ios');t.setAttribute('aria-selected',on);t.tabIndex=on?0:-1;if(on&&focus)t.focus();});
+  panels.android.hidden=p!=='android';panels.ios.hidden=p!=='ios';render();}
+ptabs[0].addEventListener('click',function(){setPlat('android');});ptabs[1].addEventListener('click',function(){setPlat('ios');});
+sel.addEventListener('keydown',function(e){var k=e.key;if(k==='ArrowRight'||k==='ArrowLeft'||k==='Home'||k==='End'){e.preventDefault();var p=(k==='Home')?'android':(k==='End')?'ios':(plat==='ios'?'android':'ios');setPlat(p,true);}});
+function toIos(){setPlat('ios');document.getElementById('get').scrollIntoView({behavior:reduce?'auto':'smooth',block:'start'});}
+document.addEventListener('click',function(e){var a=e.target.closest&&e.target.closest('a[href="#get-iphone"]');if(!a)return;e.preventDefault();if(history.replaceState)history.replaceState(null,'','#get-iphone');toIos();});
+tabs.hidden=false;sel.hidden=false;prev.hidden=false;next.hidden=false;
+setPlat(location.hash==='#get-iphone'||ios?'ios':'android');ready=true;
+if(location.hash==='#get-iphone'){var land=function(){document.getElementById('get').scrollIntoView({block:'start'});};setTimeout(land,0);window.addEventListener('load',function(){setTimeout(land,0);});}
 })();
 </script>
 </body>

diff --git a/website/tools/make-screens.py b/website/tools/make-screens.py
@@ -1,37 +1,94 @@
 #!/usr/bin/env python3
-"""Rebuild the phone screenshots in media/screens/ from app renders.
+"""Phone screens for "Get the app": ONE page list -> images + the page's data array.
 
-SWAP POINT: edit SCREENS below (source PNG per slot), then run
+SWAP POINT: edit PAGES below, then run
     python3 tools/make-screens.py
-Output names are fixed (media/screens/<slot>.webp), so index.html needs no edit
-unless a screen's aspect ratio changes (then update width/height on its <img>)
-or its content changes (then update the alt text in the SCREENS block of index.html).
+It (1) writes media/screens/<platform>-<id>.webp (+ -dark.webp when a dark render is given),
+(2) rewrites the PAGES array in index.html (between "/* PAGES (generated" and "/* /PAGES */"),
+(3) rewrites the no-JavaScript fallback screen (between <!-- FIRST SCREEN --> markers) for START,
+(4) deletes stale .webp files in media/screens.
+Order of PAGES = order of the page tabs. Every page needs a render for BOTH platforms
+(the preview always shows the chosen platform). Dark renders are optional per platform and page;
+when one is missing, that screen stays light in dark mode. Use a platform's dark set only when
+it covers every page, or the tour switches between light and dark screens.
 Needs Pillow. Not deployed (hidden by _redirects, not in the deploy ZIP).
 """
-import os
+import json, os, re
 from PIL import Image
 
-R = "/cloudspace/smartbag"
-SCREENS = {
-    # slot                 source render (light / dark pairs; same app state on both platforms)
-    "ios-shop":            R + "/ios-ui/final/11-filling.png",
-    "ios-shop-dark":       R + "/ios-ui/final/15-filling-dark.png",
-    "ios-receipt":         R + "/ios-ui/final/13-receipt-paid.png",
-    "ios-receipt-dark":    R + "/ios-ui/final/16-receipt-dark.png",
-    "android-shop":        R + "/android-ui/final/411-light/09-filling.png",
-    "android-shop-dark":   R + "/android-ui/final/411-dark/09-filling.png",
-    "android-receipt":     R + "/android-ui/final/411-light/11-receipt-paid.png",
-    "android-receipt-dark": R + "/android-ui/final/411-dark/11-receipt-paid.png",
-}
-WIDTH = 480      # about 2x the largest display width (240 px)
-QUALITY = 80
+I = "/cloudspace/smartbag/ios-ui/final/"                 # iPhone 1.1 reference renders (HTML mirror, 390x844 @2x)
+A = "/cloudspace/smartbag/android-ui/final/411-light/"   # Android 3.1 renders (Robolectric, 411 dp)
+AD = "/cloudspace/smartbag/android-ui/final/411-dark/"
 
-out = os.path.join(os.path.dirname(os.path.abspath(__file__)), "..", "media", "screens")
-os.makedirs(out, exist_ok=True)
-for slot, src in SCREENS.items():
+PAGES = [
+    # id, label (tab text), alt (platform-neutral; the page adds "Bag It on Android/iPhone"),
+    # android/ios: light render, optional dark render (None = keep light)
+    dict(id="welcome", label="Welcome",
+         alt="Welcome screen: The bag that checks you out. It lists what the app needs (Bluetooth, location, notifications) and a Get started button.",
+         android=(A + "01-welcome.png", AD + "01-welcome.png"), ios=(I + "01-welcome.png", None)),
+    dict(id="in-store", label="In store",
+         alt="In the store: You’re at Bayside Grocer, bag connected, the bag is empty: Drop something in.",
+         android=(A + "08-in-store-empty.png", AD + "08-in-store-empty.png"), ios=(I + "09-in-store-empty.png", None)),
+    dict(id="shopping", label="Shopping",
+         alt="Shopping at Bayside Grocer: each item appears with its price as it goes in the bag, one item isn’t sold there and won’t be charged, and the total says Just walk out.",
+         android=(A + "09-filling.png", AD + "09-filling.png"), ios=(I + "11-filling.png", None)),
+    dict(id="leaving", label="Leaving",
+         alt="Leaving Bayside Grocer: the bag is charged as you leave; step back inside to keep shopping.",
+         android=(A + "10-leaving.png", AD + "10-leaving.png"), ios=(I + "12-leaving.png", None)),
+    dict(id="receipt", label="Receipt",
+         alt="Receipt: Paid as you left Bayside Grocer with a demo card, an exit code to show staff if asked, and Done.",
+         android=(A + "11-receipt-paid.png", AD + "11-receipt-paid.png"), ios=(I + "13-receipt-paid.png", None)),
+]
+START = "shopping"   # page shown first (and the no-JavaScript fallback, Android)
+WIDTH = 560          # about 2x the largest display width (280 px)
+HEIGHT = 1213        # display box ratio; renders are cropped/fit to WIDTH x HEIGHT
+QUALITY = 80
+# Android renders carry a placeholder status-bar clock in the top-left corner, which the phone frame's
+# rounded corner cuts in half. Blank that strip (source pixels) to the background colour.
+BLANK_TOP = {"android": 60, "ios": 0}
+
+ROOT = os.path.join(os.path.dirname(os.path.abspath(__file__)), "..")
+OUT = os.path.join(ROOT, "media", "screens")
+os.makedirs(OUT, exist_ok=True)
+
+def make(src, name, plat):
     im = Image.open(src).convert("RGB")
+    if BLANK_TOP.get(plat):
+        top = BLANK_TOP[plat]
+        im.paste(im.getpixel((im.width // 2, top // 2)), (0, 0, im.width, top))
     h = round(im.height * WIDTH / im.width)
     im = im.resize((WIDTH, h), Image.LANCZOS)
-    dst = os.path.join(out, slot + ".webp")
-    im.save(dst, "WEBP", quality=QUALITY, method=6)
-    print(f"{slot:22s} {WIDTH}x{h}  {os.path.getsize(dst)//1024} KB  <- {src}")
+    if h != HEIGHT:   # pad/crop the bottom to the shared box (renders differ by ~1 px)
+        box = Image.new("RGB", (WIDTH, HEIGHT), im.getpixel((WIDTH // 2, h - 1)))
+        box.paste(im.crop((0, 0, WIDTH, min(h, HEIGHT))), (0, 0))
+        im = box
+    path = os.path.join(OUT, name)
+    im.save(path, "WEBP", quality=QUALITY, method=6)
+    print(f"{name:32s} {os.path.getsize(path) // 1024:3d} KB  <- {src}")
+    return "media/screens/" + name
+
+made, data = set(), []
+for p in PAGES:
+    row = dict(id=p["id"], label=p["label"], alt=p["alt"])
+    for plat in ("android", "ios"):
+        light, dark = p[plat]
+        row[plat] = make(light, f"{plat}-{p['id']}.webp", plat)
+        row[plat + "Dark"] = make(dark, f"{plat}-{p['id']}-dark.webp", plat) if dark else None
+        made.update(x.split("/")[-1] for x in (row[plat], row[plat + "Dark"]) if x)
+    data.append(row)
+for f in os.listdir(OUT):
+    if f.endswith(".webp") and f not in made:
+        os.remove(os.path.join(OUT, f)); print("removed stale", f)
+
+idx = os.path.join(ROOT, "index.html")
+html = open(idx, encoding="utf-8").read()
+arr = "/* PAGES (generated by tools/make-screens.py; edit there) */\nvar PAGES=" + json.dumps(data, ensure_ascii=False, indent=0).replace("\n", "") + ",START=" + json.dumps(START) + ";\n/* /PAGES */"
+html, n1 = re.subn(r"/\* PAGES \(generated.*?/\* /PAGES \*/", lambda m: arr, html, flags=re.S)
+s = next(r for r in data if r["id"] == START)
+first = ('<!-- FIRST SCREEN -->\n<picture>' + (f'<source srcset="{s["androidDark"]}" media="(prefers-color-scheme: dark)">' if s["androidDark"] else "")
+         + f'<img src="{s["android"]}" width="{WIDTH}" height="{HEIGHT}" fetchpriority="low" decoding="async" alt="Bag It on Android. {s["alt"]}"></picture>\n<!-- /FIRST SCREEN -->')
+html, n2 = re.subn(r"<!-- FIRST SCREEN -->.*?<!-- /FIRST SCREEN -->", lambda m: first, html, flags=re.S)
+if n1 != 1 or n2 != 1:
+    raise SystemExit(f"index.html markers not found (PAGES {n1}, FIRST SCREEN {n2})")
+open(idx, "w", encoding="utf-8").write(html)
+print(f"index.html: {len(data)} pages, start={START}")

diff --git a/website/README.md b/website/README.md
@@ -4,8 +4,8 @@ Static site for Bag It. No build step, no cookies, no analytics, no third-party 
 
 ```
 index.html          the page (inline CSS + SVG, small script: video play/pause, Android download button)
-media/screens/      phone screenshots, iPhone and Android (see Screenshots below)
-tools/              make-screens.py: rebuilds media/screens from app renders (not deployed)
+media/screens/      phone screens for the Get the app preview, iPhone and Android (see Screenshots below)
+tools/              make-screens.py: the page list; rebuilds media/screens and the PAGES array (not deployed)
 brand/              logo, mark, favicon, touch icon, OG image, brand.md
 media/              product film + app demo recordings (see media/README.md)
 downloads/          bag-it.apk (Android app; stable name, replace the file to update)
@@ -27,17 +27,17 @@ Content rules: only true statements. Payments are simulated during early access;
 Publish only the files in the ZIP built from this folder: index.html, 404.html, _headers, _redirects, brand/{favicon.svg,favicon-32.png,apple-touch-icon.png,og-image.jpg,logo.svg,mark.svg}, media/* (including media/screens/*.webp), downloads/*.apk. `_redirects` hides the internal docs if the whole folder is deployed.
 
 ## Screenshots (swap point)
-"Get the app" shows the iPhone and Android apps as equals, each with the same two screens (Shopping, Receipt) so they can be compared. Light and dark versions switch with the visitor's theme.
+"Get the app" is one phone preview plus a platform selector. Page tabs above the phone (and the arrows, swipe, arrow keys) browse the app's screens; the Android | iPhone selector below picks the platform, which drives both the phone (same page, other platform) and the panel under it (Android: download + QR; iPhone: not available yet). Default platform: iPhone for iOS user agents and for links to `#get-iphone`, otherwise Android. Without JavaScript the page shows the first screen (Android) and both panels.
 
-- Files: `media/screens/{android,ios}-{shop,receipt}[-dark].webp`, 480 px wide (about 2x display size), about 20 KB each, lazy-loaded.
-- Source list: `SCREENS` at the top of `tools/make-screens.py` (one source PNG per slot). To swap: point the slots at the new renders and run `python3 tools/make-screens.py`. File names stay the same, so index.html needs no change unless:
-  - a screen's aspect ratio changes: update `width`/`height` on its `<img>`;
-  - a screen shows something else: update its `alt` text and caption.
-- In index.html every screenshot sits between `<!-- SCREENS (swap point) -->` and `<!-- /SCREENS -->` (one block per platform). To show a different state, change both platforms' blocks together.
-- Current sources: iPhone 1.1 reference renders (`/cloudspace/smartbag/ios-ui/final/11-filling, 13-receipt-paid, 15-filling-dark, 16-receipt-dark`), Android 3.1 renders (`/cloudspace/smartbag/android-ui/final/411-{light,dark}/09-filling, 11-receipt-paid`). The iPhone screens are previews, so the page says "The iPhone screens are previews of the app in development." under the platforms. Remove that sentence once the iPhone screens come from a real build.
+- **One page list:** `PAGES` at the top of `tools/make-screens.py` (id, tab label, platform-neutral alt text, Android render, iPhone render, optional dark render per platform) plus `START` (first page shown). Run `python3 tools/make-screens.py`. It writes `media/screens/<android|ios>-<id>[-dark].webp` (560 px wide, about 20 KB), regenerates the `PAGES` data array in index.html (between `/* PAGES (generated` and `/* /PAGES */`) and the no-JavaScript first screen (between `<!-- FIRST SCREEN -->` markers), and deletes stale files. Order of the list = order of the tabs.
+- **Adding pages** (Sign up, Shop, Trips, Wallet, Account, Pair your bag when Android 3.2 / iPhone 1.2 land): append entries with a render for BOTH platforms. A page that exists on only one platform can't be in the tour.
+- **Dark mode:** Android has a full dark set, so its screens follow the visitor's theme. iPhone dark renders exist for only two pages, so the iPhone tour stays light in both themes rather than switching mid-tour; add `ios` dark renders when a full set exists.
+- Android renders have a placeholder status-bar clock in the top-left corner; the tool blanks that strip (`BLANK_TOP`) because the phone frame's rounded corner would cut it.
+- Current sources: iPhone 1.1 reference renders (`/cloudspace/smartbag/ios-ui/final/`, HTML mirror, so the page says "The iPhone screens are previews of the app in development." whenever iPhone is selected; remove that once screens come from a real build) and Android 3.1 renders (`/cloudspace/smartbag/android-ui/final/411-light|411-dark`).
+- If the screens change size, keep `WIDTH`/`HEIGHT` in the tool and the `aspect-ratio` of `.screen` in index.html in step.
 
 ## iPhone availability
-There is no App Store or TestFlight build: the page says "Coming soon to the App Store" with no badge or link. When the app is live, replace the `<p class="soon">` in `#get-iphone` with the App Store link, and update the hero fine print, the meta description, the FAQ "Which phones does it work with?" and the iPhone script branch at the bottom of index.html.
+There is no App Store or TestFlight build: the iPhone panel says "The iPhone app isn’t available to download yet. It’s coming to the App Store." with no badge or link. When the app is live, replace the `<p class="plain">` in the `#get-iphone` panel with the App Store link, and update the hero fine print, the meta description, the FAQ "Which phones does it work with?" and the iPhone script branch at the bottom of index.html.
 
 ## When accounts, Wallet and pairing ship (prepared, not on the page yet)
 These features are not in the released apps yet, so the page does not mention them. When they ship:
@@ -46,4 +46,4 @@ These features are not in the released apps yet, so the page does not mention th
 3. "Will I be charged?" says no card is ever entered. If the Wallet lets people save cards, say how they're used during early access (still simulated?).
 4. Optional setup line, ready to paste under the Get the app intro (`.head`), only once all three steps are real in both apps:
    `<p class="label" style="margin-top:20px">Set up in a minute</p><ol class="steps">…</ol>` with three items: "Create your account", "Pair your bag", "Add a card". The `.steps` style from How it works can be reused.
-5. Swap the screenshots (above) for the new screens.
+5. Add the new screens to `PAGES` (above).
